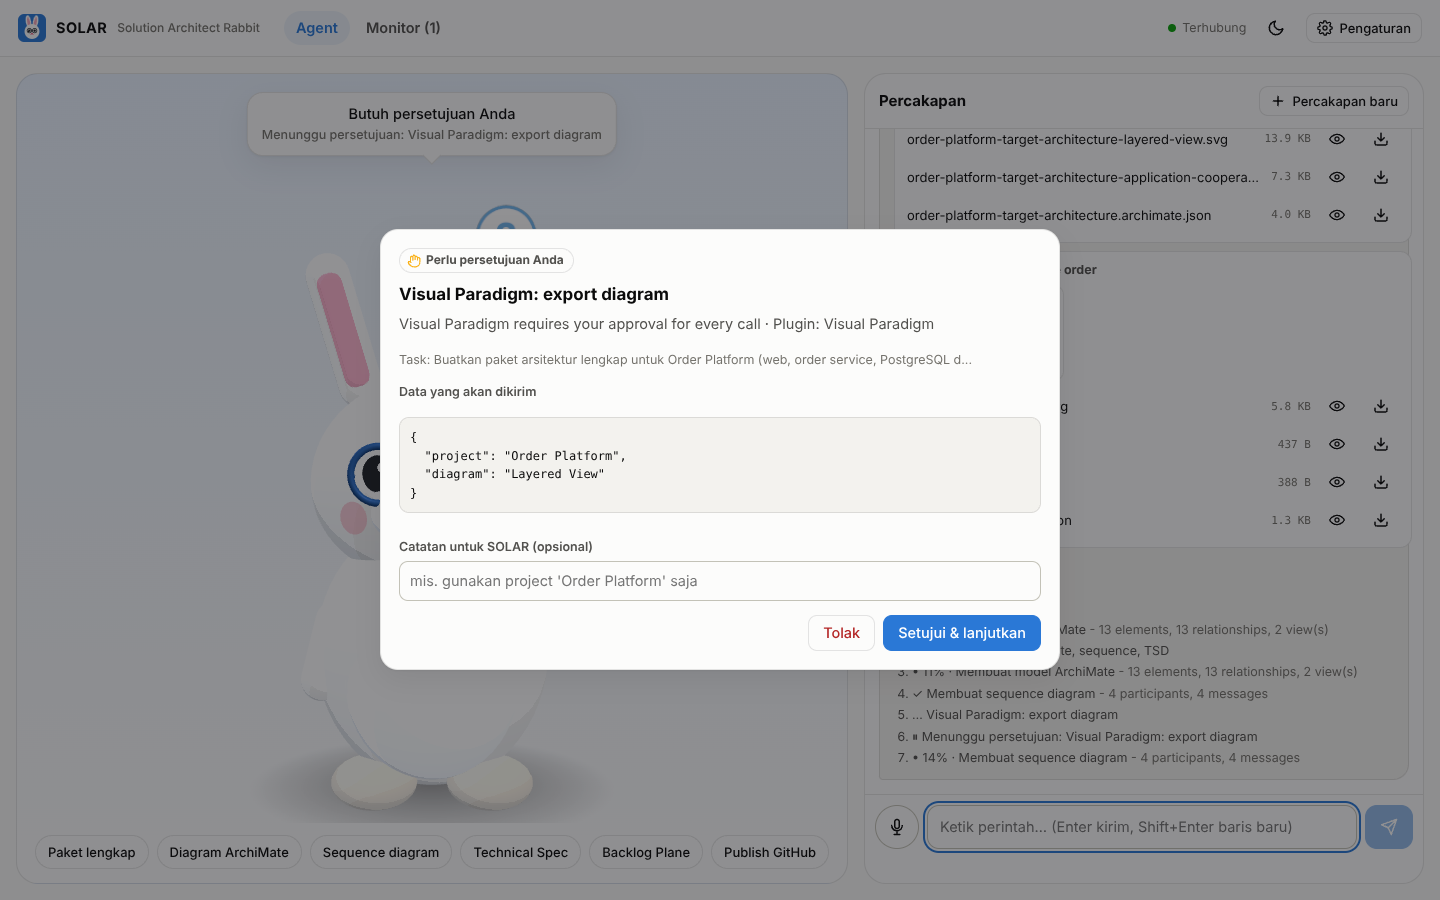
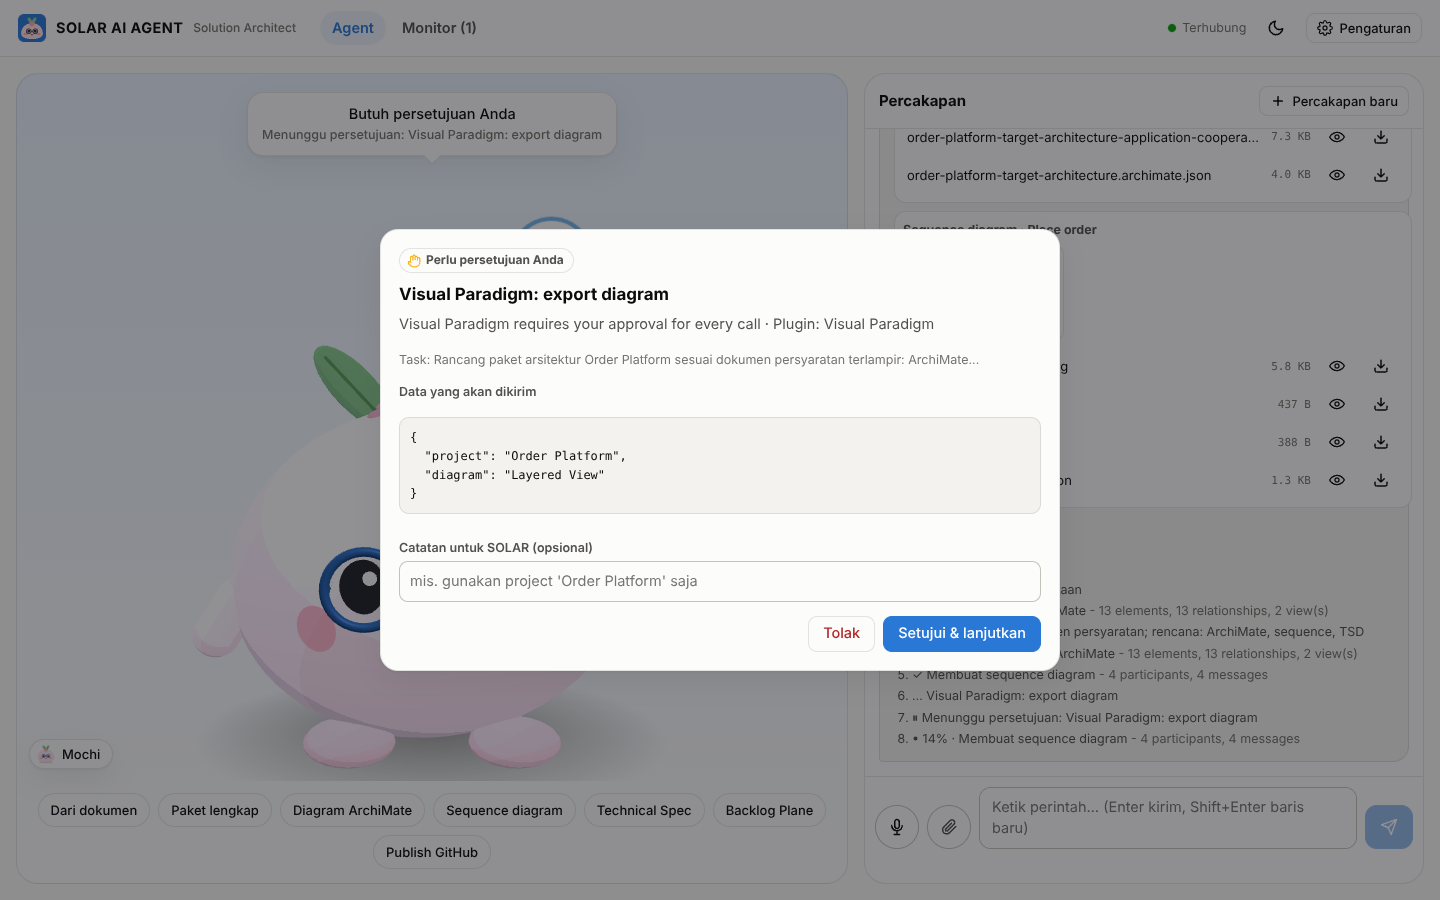
docs: refresh screenshots for SOLAR AI AGENT, the characters and attachments
Agent page with Mochi and an attached requirements document, a finished
task in dark theme with Cocoa Kelapa, the approval dialog and the monitor
(with the attached-document section), captured from a scripted demo run.

Claude-Session: https://claude.ai/code/session_01W5hdGtEkLN9rAsuQsB38iq

diff --git a/README.md b/README.md
@@ -14,9 +14,9 @@ Perintah diberikan dengan **mengetik atau suara**, berjalan di **browser** maupu
 bisa ditambah **skills** dan **plugin MCP** (GitHub, Plane `plane.mesthi.com` sebagai backlog, Visual Paradigm dengan
 konfirmasi wajib), dan setiap pekerjaan bisa dipantau di **web monitoring task**.
 
-![Halaman agent](docs/images/agent-light.png)
+![Halaman agent dengan karakter Mochi dan dokumen terlampir](docs/images/agent-light.png)
 
-| Hasil & artefak (tema gelap) | Konfirmasi sebelum aksi eksternal | Monitor task |
+| Hasil & artefak (tema gelap, karakter Cocoa Kelapa) | Konfirmasi sebelum aksi eksternal | Monitor task |
 |---|---|---|
 | ![Hasil](docs/images/agent-dark-result.png) | ![Konfirmasi](docs/images/confirmation.png) | ![Monitor](docs/images/monitor.png) |
 
